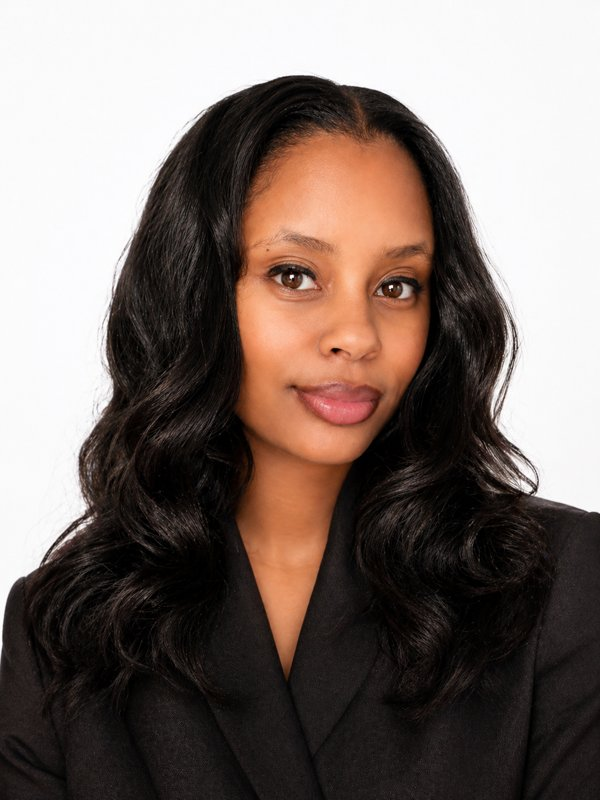
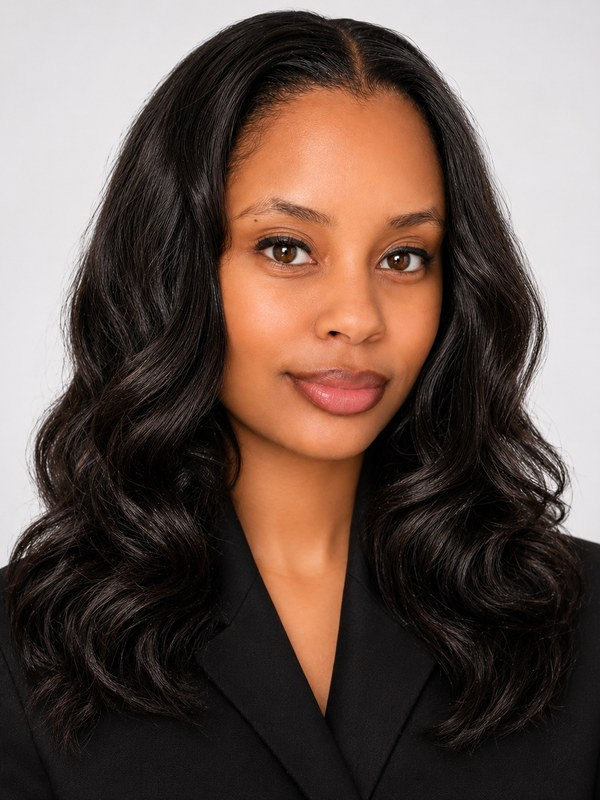
Replace the headshot on the public site
New photo on the home page, About page, social preview image, and the
search listing data. Served as an optimized JPEG (270 KB instead of a
2.8 MB PNG).

Claude-Session: https://claude.ai/code/session_0179KZJYt125h6Ze6TPz1hRK

diff --git a/src/app/(site)/page.tsx b/src/app/(site)/page.tsx
@@ -61,10 +61,10 @@ export default function Home() {
           <Sparkle className={s.heroSparkleB} />
           <div className={s.portraitArch}>
             <Image
-              src="/Alante.PNG"
+              src="/alante-headshot.jpg"
               alt="Portrait of Alante Velez smiling softly, wearing a black blazer"
-              width={1086}
-              height={1448}
+              width={1122}
+              height={1402}
               preload
               sizes="(max-width: 1000px) 70vw, 420px"
               className={s.portraitImg}

diff --git a/src/app/(site)/about/page.tsx b/src/app/(site)/about/page.tsx
@@ -31,10 +31,10 @@ export default function AboutPage() {
         <div className={s.aboutPhotoWrap}>
           <div className={s.aboutPhoto}>
             <Image
-              src="/Alante.PNG"
+              src="/alante-headshot.jpg"
               alt="Portrait of Alante Velez"
-              width={1086}
-              height={1448}
+              width={1122}
+              height={1402}
               preload
               sizes="(max-width: 1000px) 60vw, 340px"
               className={s.aboutImg}

diff --git a/src/app/(site)/layout.tsx b/src/app/(site)/layout.tsx
@@ -10,7 +10,7 @@ const jsonLd = {
   name: 'Alante Velez',
   url: SITE_URL,
   email: CONTACT_EMAIL,
-  image: `${SITE_URL}/Alante.PNG`,
+  image: `${SITE_URL}/alante-headshot.jpg`,
   description:
     'Website design, website redesigns, custom web development, and ongoing website care for small businesses, service providers, consultants, and creators.',
   areaServed: { '@type': 'Country', name: 'United States' },
